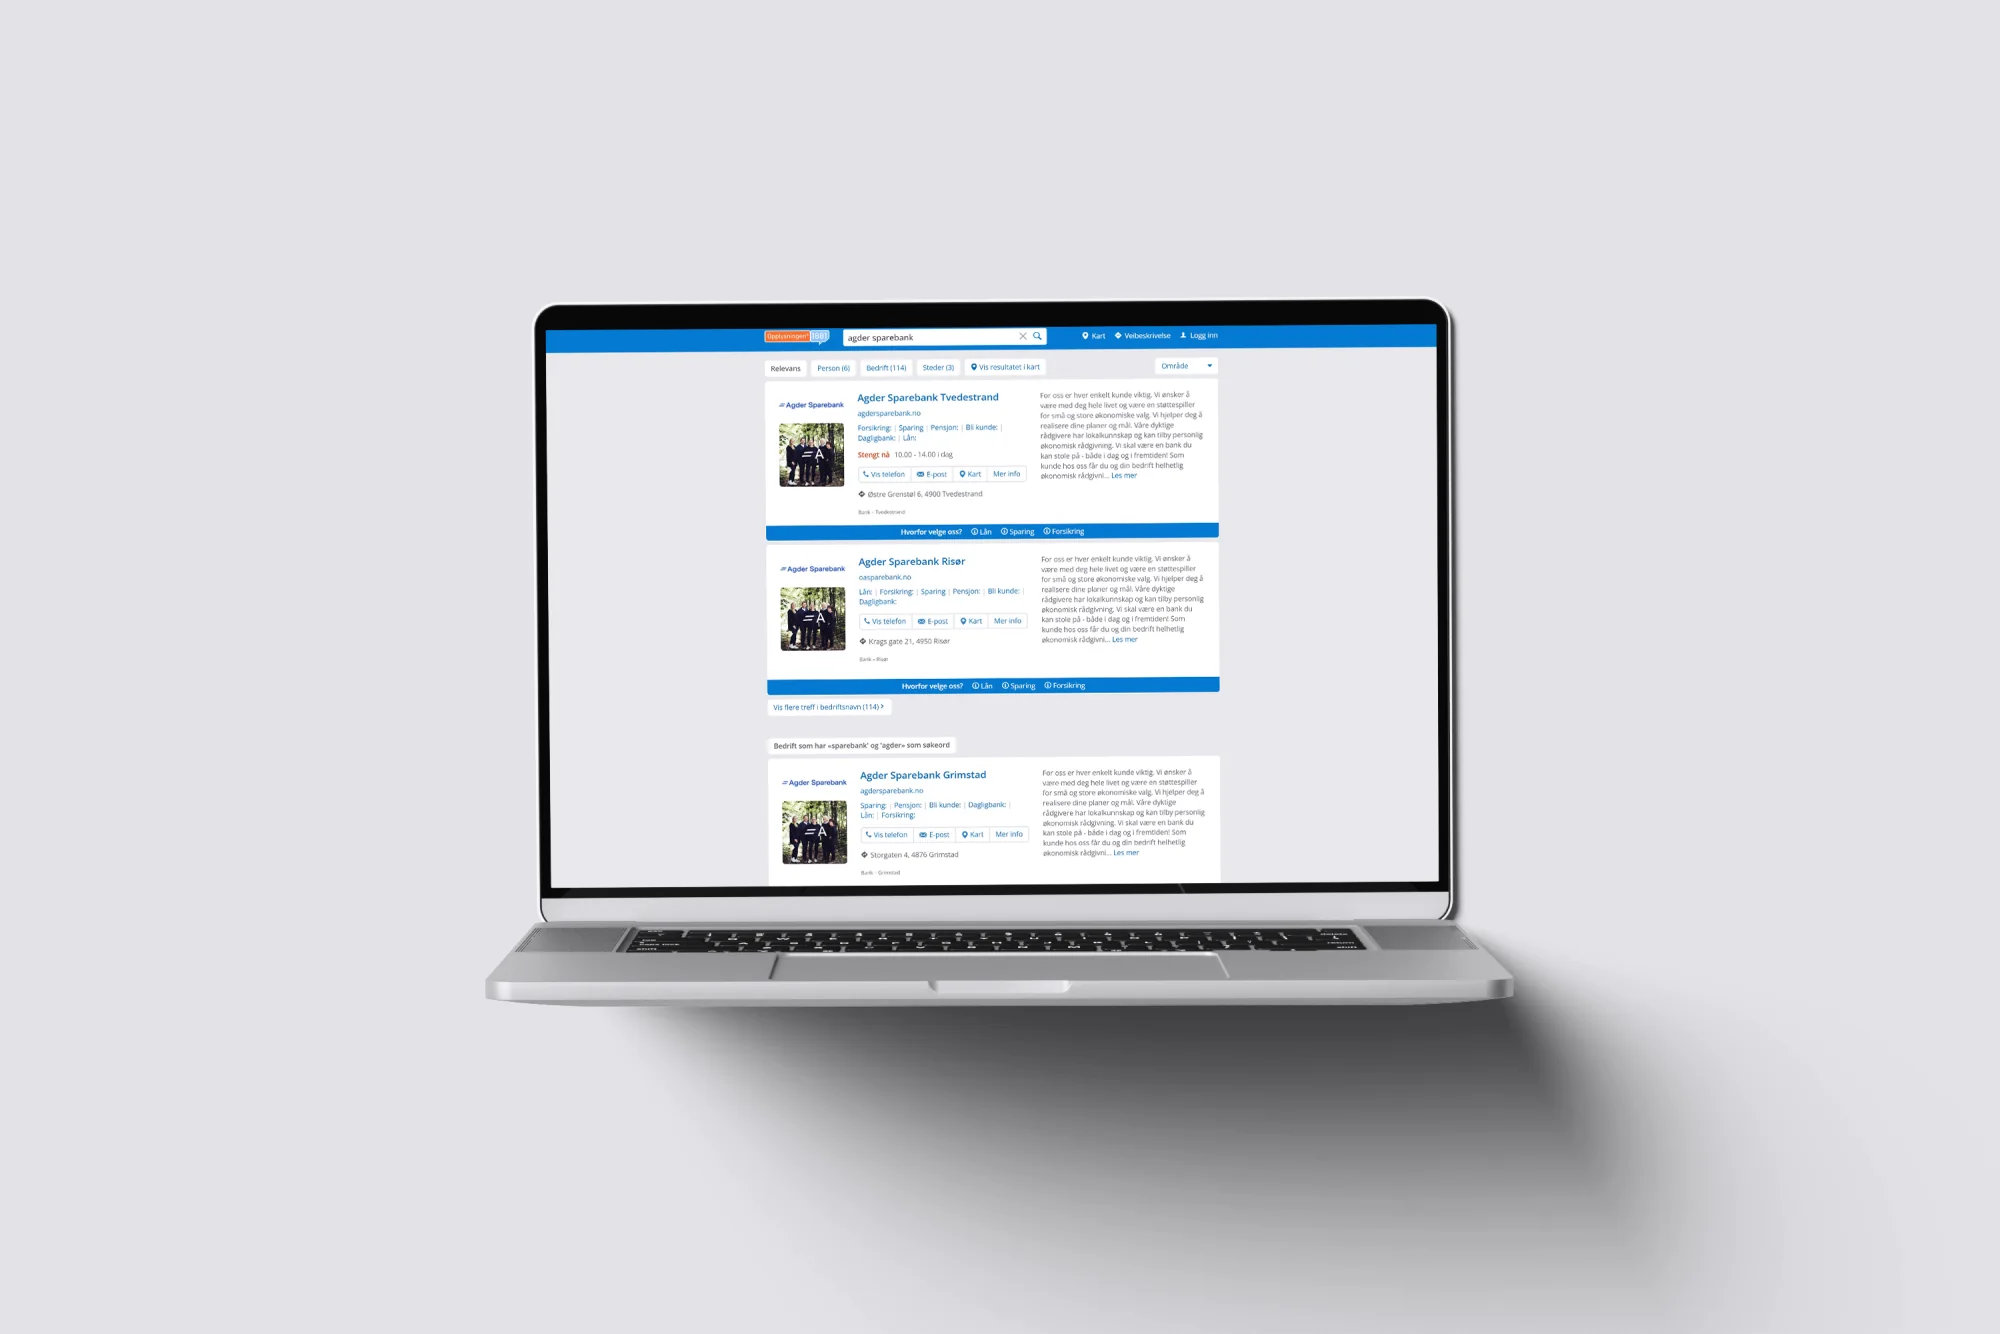
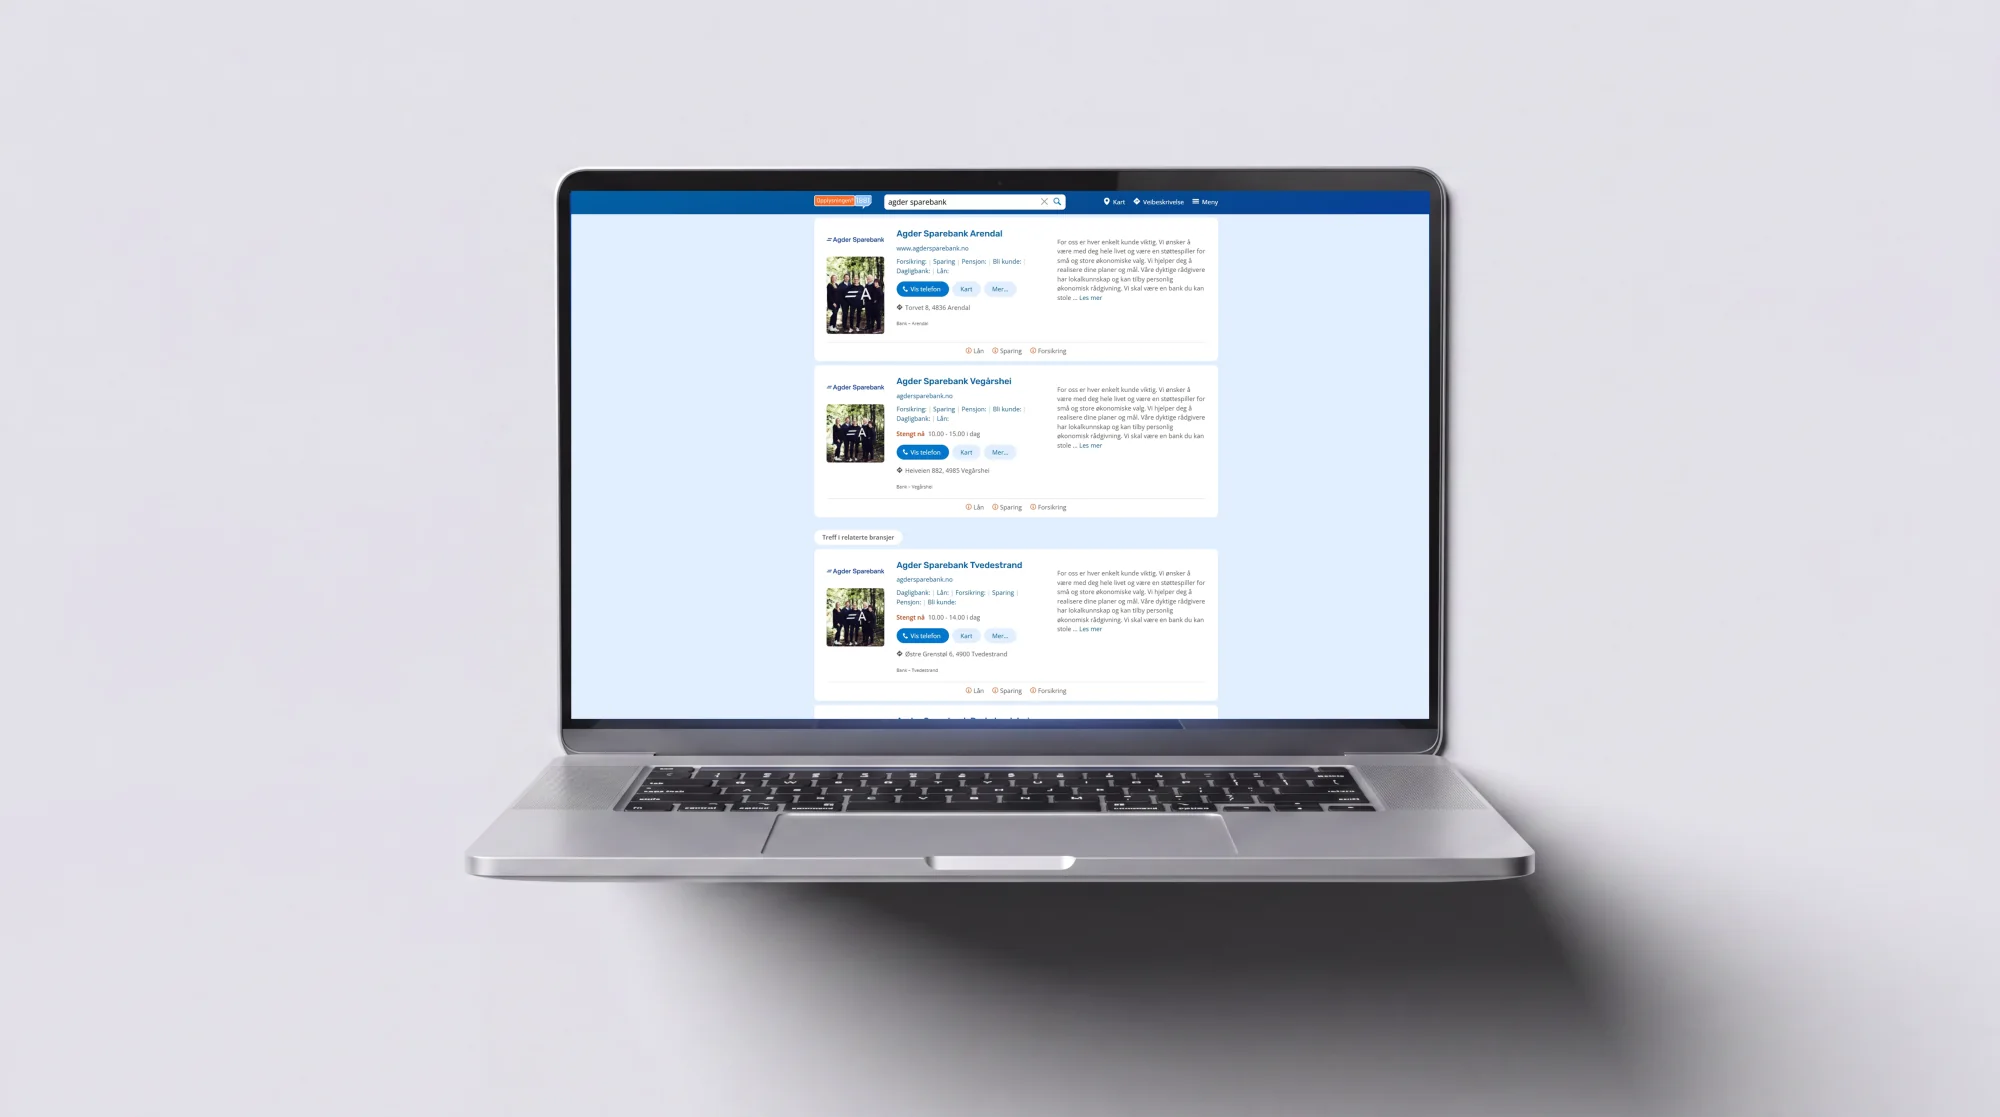
Storefronts: sharper laptop mockups for before, after and search

Changed region(s): [[0.217, 0.1218, 0.93, 1.0]]

diff --git a/work-digital-storefronts.html b/work-digital-storefronts.html
@@ -149,11 +149,11 @@
       <!-- Before / after -->
       <div class="grid md:grid-cols-2 gap-6 md:gap-8 mt-16 md:mt-24 items-start">
         <figure class="reveal">
-          <img src="assets/storefronts/jobb-og-fritid-before.webp" alt="A laptop showing the Jobb og Fritid business profile before the storefront treatment &mdash; a plain white card with the company name, links and opening hours on the default pale blue background" width="1563" height="1100" loading="lazy" decoding="async" class="w-full rounded-2xl" />
+          <img src="assets/storefronts/jobb-og-fritid-before.webp" alt="A laptop showing the Jobb og Fritid business profile before the storefront treatment &mdash; a plain white card with the company name, links and opening hours on the default pale blue background" width="2000" height="1117" loading="lazy" decoding="async" class="w-full rounded-2xl" />
           <figcaption class="eyebrow text-forest-deep/40 mt-3">Before &mdash; the standard profile</figcaption>
         </figure>
         <figure class="reveal" style="transition-delay: 120ms;">
-          <img src="assets/storefronts/jobb-og-fritid-after.webp" alt="The same profile as a digital storefront &mdash; a full-bleed mountain photograph as the backdrop, the company logo, a description and the brand&rsquo;s orange carried through the page" width="1563" height="1100" loading="lazy" decoding="async" class="w-full rounded-2xl" />
+          <img src="assets/storefronts/jobb-og-fritid-after.webp" alt="The same profile as a digital storefront &mdash; a full-bleed mountain photograph as the backdrop, the company logo, a description and the brand&rsquo;s orange carried through the page" width="2000" height="1117" loading="lazy" decoding="async" class="w-full rounded-2xl" />
           <figcaption class="eyebrow text-forest-deep/40 mt-3">After &mdash; the same business, with a face</figcaption>
         </figure>
       </div>
@@ -250,7 +250,7 @@
       </div>
 
       <figure class="mt-14 md:mt-20 reveal">
-        <img src="assets/storefronts/search-results.webp" alt="A laptop showing an 1881 search result page &mdash; each business listed with its logo, a photograph, a description and quick actions for phone, email and map" width="2000" height="1333" loading="lazy" decoding="async" class="w-full rounded-2xl" />
+        <img src="assets/storefronts/search-results.webp" alt="A laptop showing an 1881 search result page for Agder Sparebank &mdash; each branch listed with its logo, a staff photograph, a description and quick actions for phone and map" width="2000" height="1117" loading="lazy" decoding="async" class="w-full rounded-2xl" />
         <figcaption class="eyebrow text-forest-deep/40 mt-4">Identity carried into the result list</figcaption>
       </figure>
     </div>
